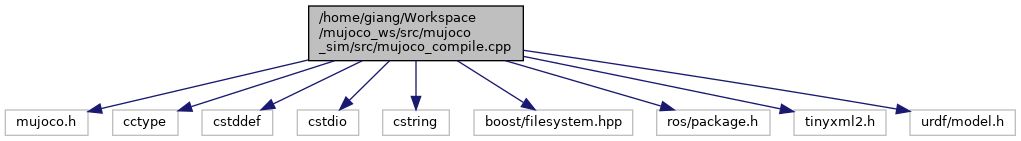
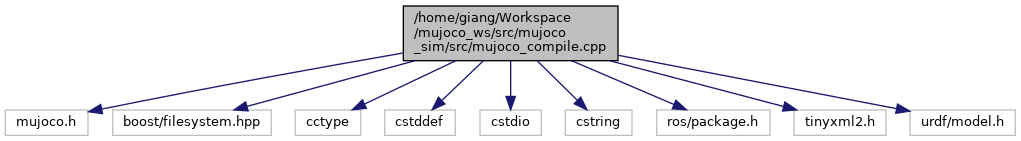
Add save .dae meshes

diff --git a/docs/html/mujoco__compile_8cpp.html b/docs/html/mujoco__compile_8cpp.html
@@ -75,11 +75,11 @@ $(function() {
 </div><!--header-->
 <div class="contents">
 <div class="textblock"><code>#include &quot;mujoco.h&quot;</code><br />
+<code>#include &lt;boost/filesystem.hpp&gt;</code><br />
 <code>#include &lt;cctype&gt;</code><br />
 <code>#include &lt;cstddef&gt;</code><br />
 <code>#include &lt;cstdio&gt;</code><br />
 <code>#include &lt;cstring&gt;</code><br />
-<code>#include &lt;boost/filesystem.hpp&gt;</code><br />
 <code>#include &lt;ros/package.h&gt;</code><br />
 <code>#include &lt;tinyxml2.h&gt;</code><br />
 <code>#include &lt;urdf/model.h&gt;</code><br />
@@ -88,13 +88,13 @@ Include dependency graph for mujoco_compile.cpp:</div>
 <div class="dyncontent">
 <div class="center"><img src="mujoco__compile_8cpp__incl.png" border="0" usemap="#_2home_2giang_2Workspace_2mujoco__ws_2src_2mujoco__sim_2src_2mujoco__compile_8cpp" alt=""/></div>
 <map name="_2home_2giang_2Workspace_2mujoco__ws_2src_2mujoco__sim_2src_2mujoco__compile_8cpp" id="_2home_2giang_2Workspace_2mujoco__ws_2src_2mujoco__sim_2src_2mujoco__compile_8cpp">
-<area shape="rect" title=" " alt="" coords="309,5,523,61"/>
+<area shape="rect" title=" " alt="" coords="403,5,618,61"/>
 <area shape="rect" title=" " alt="" coords="5,109,88,136"/>
-<area shape="rect" title=" " alt="" coords="113,109,178,136"/>
-<area shape="rect" title=" " alt="" coords="202,109,273,136"/>
-<area shape="rect" title=" " alt="" coords="297,109,359,136"/>
-<area shape="rect" title=" " alt="" coords="383,109,449,136"/>
-<area shape="rect" title=" " alt="" coords="474,109,633,136"/>
+<area shape="rect" title=" " alt="" coords="113,109,271,136"/>
+<area shape="rect" title=" " alt="" coords="295,109,361,136"/>
+<area shape="rect" title=" " alt="" coords="385,109,455,136"/>
+<area shape="rect" title=" " alt="" coords="480,109,541,136"/>
+<area shape="rect" title=" " alt="" coords="565,109,632,136"/>
 <area shape="rect" title=" " alt="" coords="657,109,770,136"/>
 <area shape="rect" title=" " alt="" coords="794,109,886,136"/>
 <area shape="rect" title=" " alt="" coords="910,109,1015,136"/>

diff --git a/src/mujoco_compile.cpp b/src/mujoco_compile.cpp
@@ -20,11 +20,11 @@
 
 #include "mujoco.h"
 
+#include <boost/filesystem.hpp>
 #include <cctype>
 #include <cstddef>
 #include <cstdio>
 #include <cstring>
-#include <boost/filesystem.hpp>
 #include <ros/package.h>
 #include <tinyxml2.h>
 #include <urdf/model.h>
@@ -178,7 +178,6 @@ void fix_inertia(const boost::filesystem::path &model_urdf_path)
     {
         doc.SaveFile(model_urdf_path.c_str());
     }
-    
 }
 
 // modify input file
@@ -203,6 +202,40 @@ void load_urdf(const char *input, const char *output)
     model.getLinks(links);
     for (const urdf::LinkSharedPtr &link : links)
     {
+        for (const urdf::VisualConstSharedPtr &visual : link->visual_array)
+        {
+            if (visual->geometry->type == urdf::Geometry::MESH)
+            {
+                urdf::Mesh &mesh = dynamic_cast<urdf::Mesh &>(*visual->geometry);
+                mesh.filename.erase(0, 9);
+                boost::filesystem::path mesh_path = mesh.filename;
+                if (mesh_path.extension().compare(".dae") != 0)
+                {
+                    ROS_WARN("File [%s] doesn't have .dae format, ignore", mesh_path.c_str());
+                }
+                else 
+                {
+                    std::string file_name = mesh_path.filename().string();
+                    boost::filesystem::path ros_pkg = mesh_path;
+                    while (ros_pkg.has_parent_path() && ros_pkg.parent_path().has_parent_path())
+                    {
+                        ros_pkg = ros_pkg.parent_path();
+                    }
+                    ros_pkg = ros_pkg.relative_path();
+                    boost::filesystem::path ros_pkg_path = ros::package::getPath(ros_pkg.string());
+                    mesh_path = ros_pkg_path.parent_path() / mesh_path.string();
+
+                    if (boost::filesystem::exists(meshes_path / (link->name + ".dae")))
+                    {
+                        ROS_INFO("File [%s] from [%s] already exists in [%s], ignore", (link->name + ".dae").c_str(), mesh_path.c_str(), meshes_path.c_str());
+                    }
+                    else
+                    {
+                        boost::filesystem::copy_file(mesh_path, meshes_path / (link->name + ".dae"));
+                    }
+                }
+            }
+        }
         for (const urdf::CollisionSharedPtr &collision : link->collision_array)
         {
             if (collision->geometry->type == urdf::Geometry::MESH)
@@ -222,7 +255,7 @@ void load_urdf(const char *input, const char *output)
 
                 if (boost::filesystem::exists(meshes_path / file_name))
                 {
-                    ROS_WARN("File [%s] from [%s] already exists in [%s], ignore", file_name.c_str(), mesh_path.c_str(), meshes_path.c_str());
+                    ROS_INFO("File [%s] from [%s] already exists in [%s], ignore", file_name.c_str(), mesh_path.c_str(), meshes_path.c_str());
                 }
                 else
                 {

diff --git a/src/mj_ros.cpp b/src/mj_ros.cpp
@@ -693,6 +693,7 @@ void MjRos::add_marker(const int body_id)
     const int geom_id = m->body_geomadr[body_id];
     if (geom_id != -1)
     {
+        std::string mesh_name;
         switch (m->geom_type[geom_id])
         {
         case mjtGeom::mjGEOM_BOX:
@@ -720,10 +721,17 @@ void MjRos::add_marker(const int body_id)
 
         case mjtGeom::mjGEOM_MESH:
             marker.type = visualization_msgs::Marker::MESH_RESOURCE;
-            marker.mesh_resource = "package://mujoco_sim/model/tmp/" + world_path.stem().string() + "/meshes/" + mj_id2name(m, mjtObj::mjOBJ_BODY, body_id) + ".dae";
+            mesh_name = mj_id2name(m, mjtObj::mjOBJ_BODY, body_id);
+            if (!boost::filesystem::exists(tmp_world_path / (world_path.stem().string() + "/meshes/" + mesh_name + ".dae")))
+            {
+                ROS_WARN("Mesh %s not found in %s", mesh_name.c_str(), (tmp_world_path / (world_path.stem().string() + "/meshes")).c_str());
+                return;
+            }
+            marker.mesh_resource = "package://mujoco_sim/model/tmp/" + world_path.stem().string() + "/meshes/" + mesh_name + ".dae";
             marker.scale.x = 1;
             marker.scale.y = 1;
             marker.scale.z = 1;
+            break;
 
         default:
             break;
